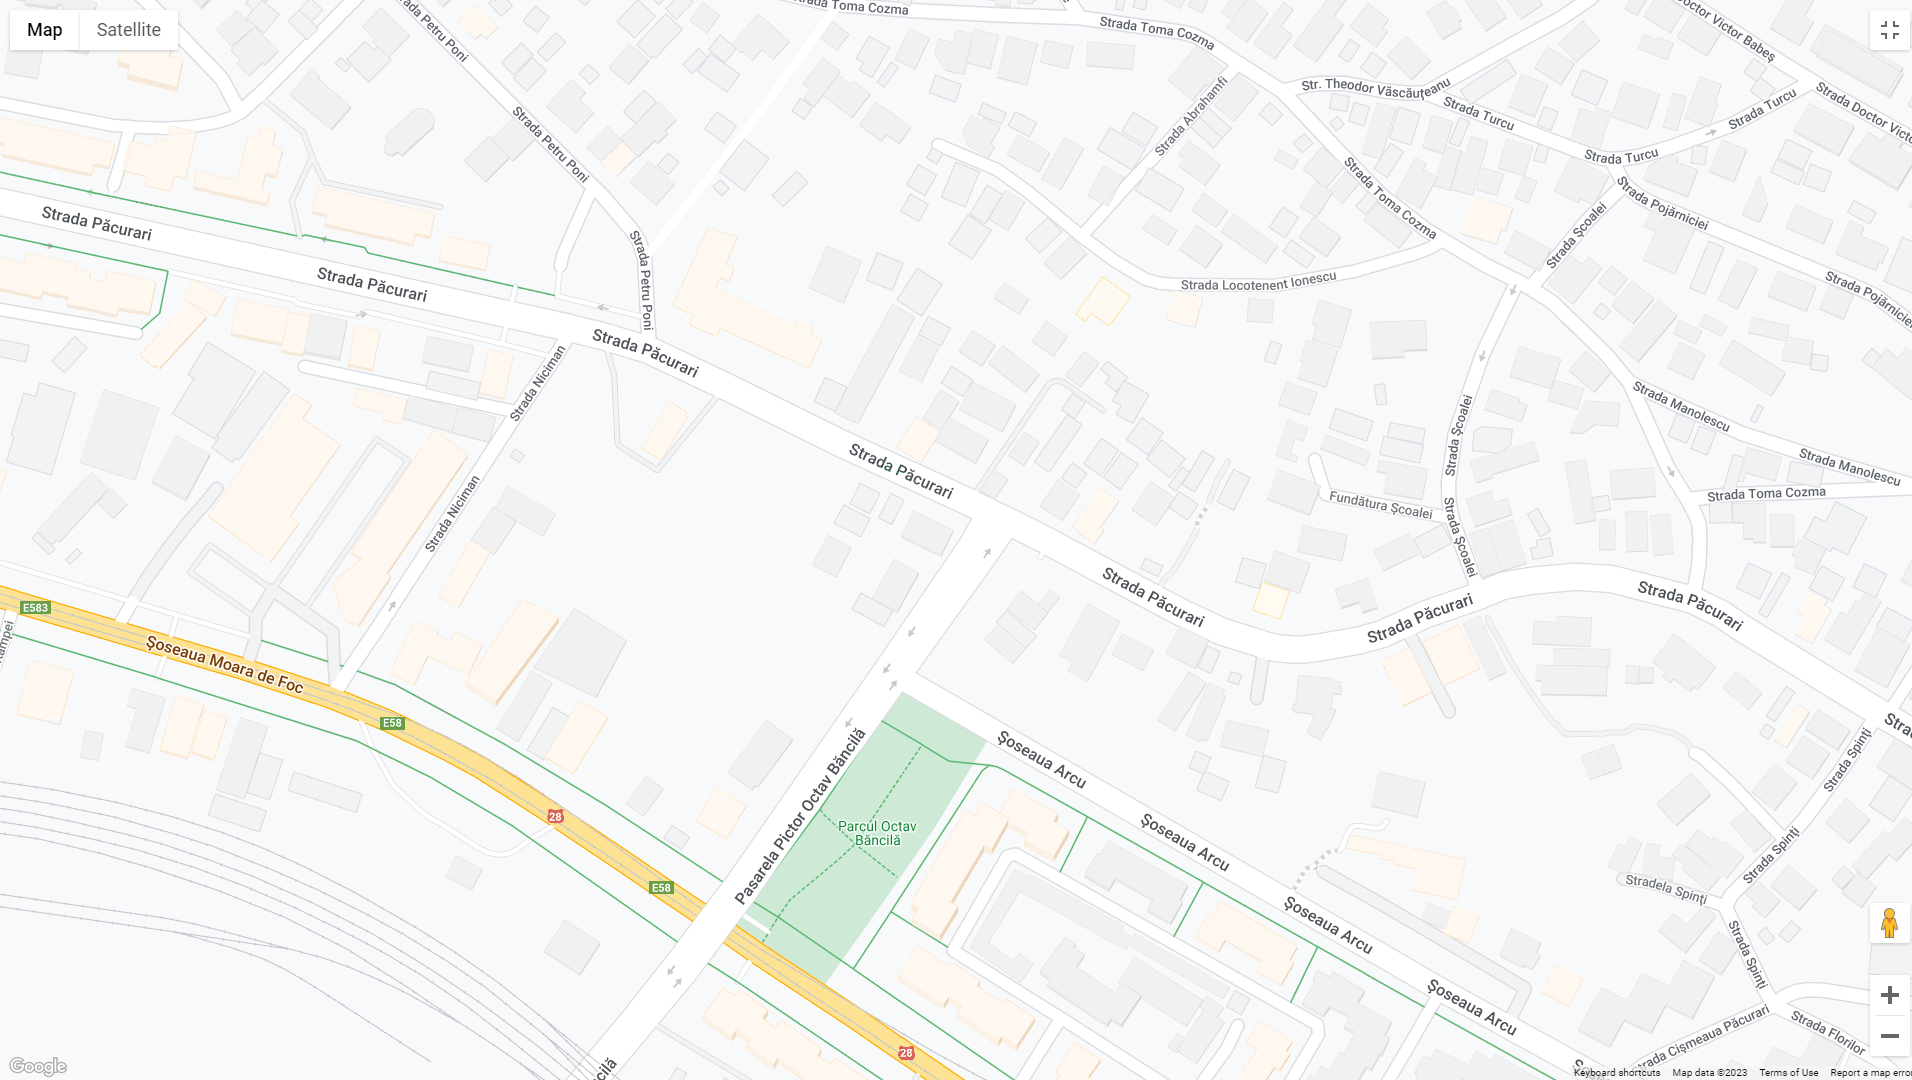
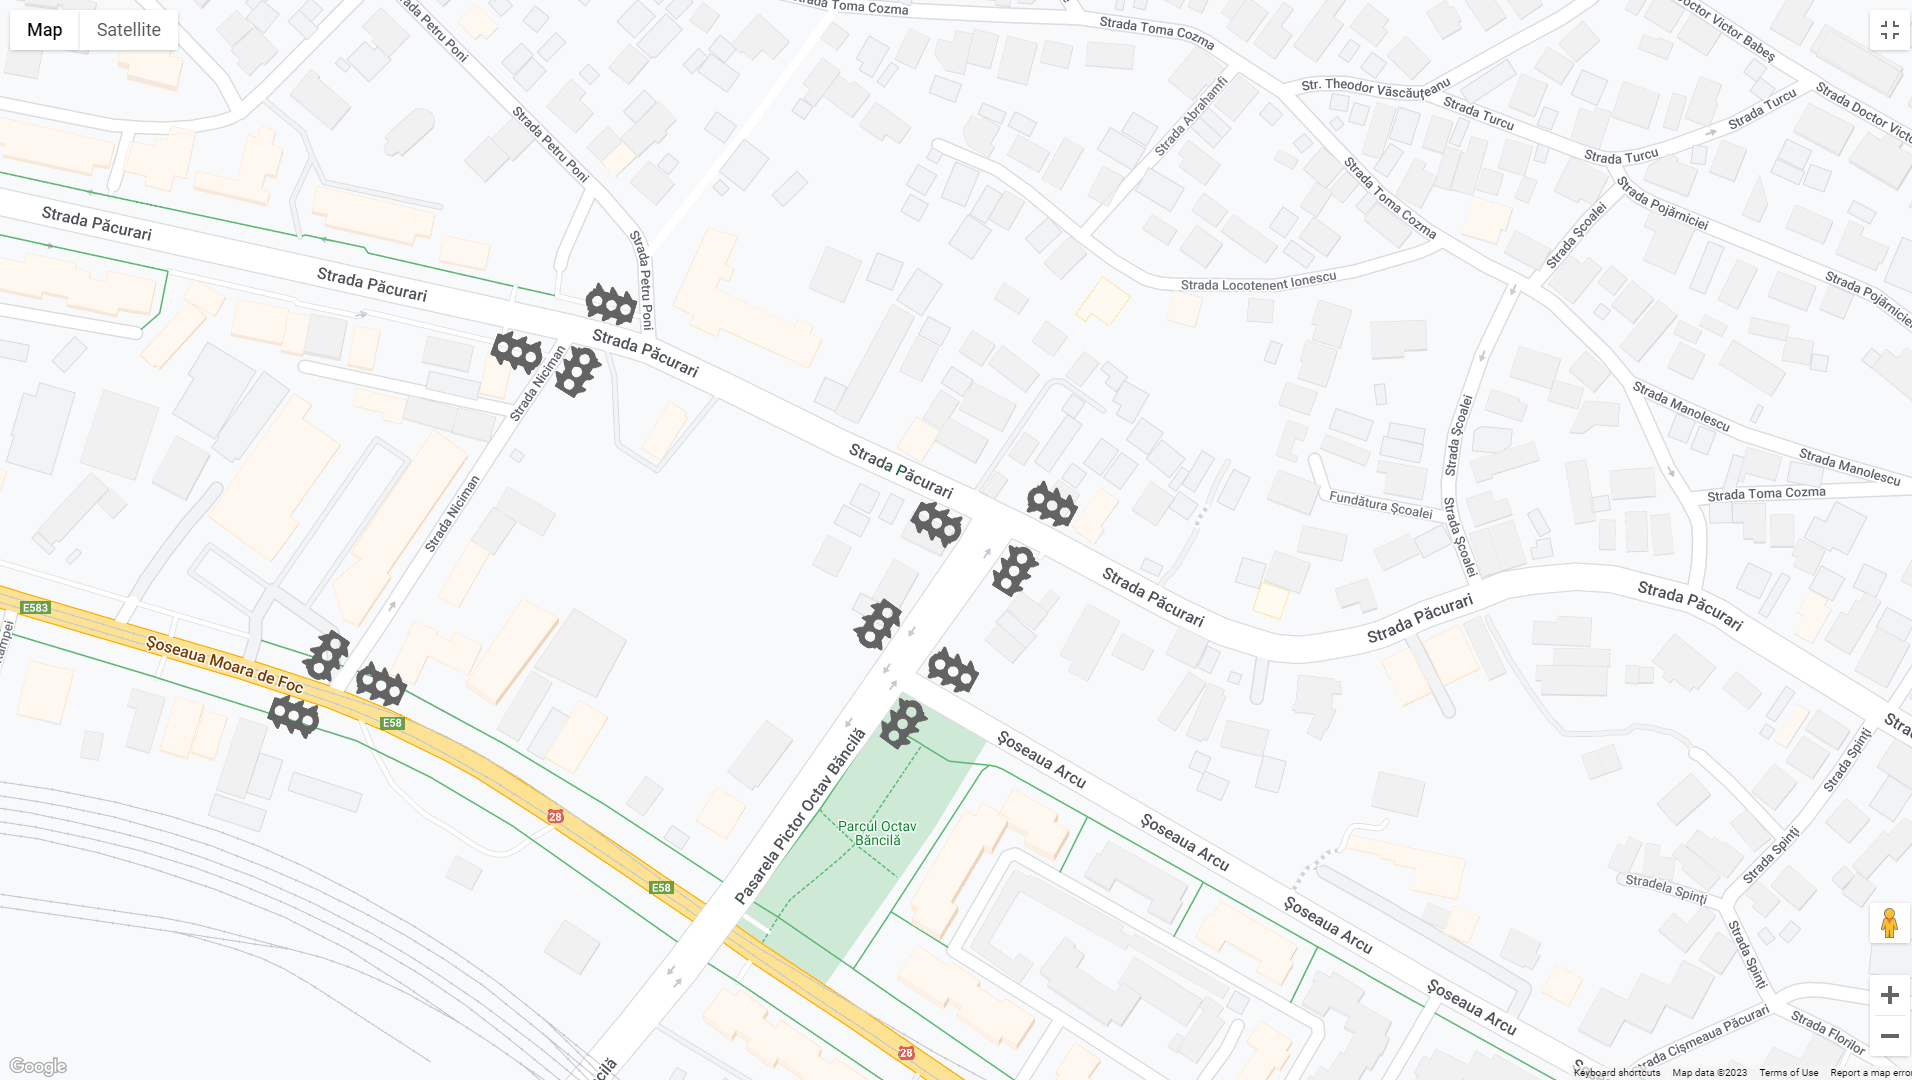
[ADDED] traffic lights for pasarela

diff --git a/src/main/java/com/example/trafficsimulator/models/Simulation.java b/src/main/java/com/example/trafficsimulator/models/Simulation.java
@@ -145,7 +145,7 @@ public class Simulation {
             Node start = nodes.get(index);
 
             List<Node> reachableNodes = start.getReachableNodes();
-            while(reachableNodes.size() == 0){
+            while(reachableNodes.size() == 0 || start.isOccupied()){
                 index = random.nextInt(upperbound);
                 start = nodes.get(index);
                 reachableNodes = start.getReachableNodes();
@@ -154,6 +154,8 @@ public class Simulation {
             Node end = reachableNodes.get(index2);
 
             Car car = new Car("Car " + i, start, end);
+
+            start.setOccupied(true);
             car.setTrafficMapController(trafficMap.getTrafficMapController());
 
             carList.add(car);

diff --git a/src/main/java/com/example/trafficsimulator/controllers/MainMenuController.java b/src/main/java/com/example/trafficsimulator/controllers/MainMenuController.java
@@ -37,7 +37,7 @@ public class MainMenuController {
                 zoneChoiceBox.getSelectionModel().selectFirst();
 
                 // Set default value for carsSpinner, and set a min and max value
-                carsSpinner.setValueFactory(new SpinnerValueFactory.IntegerSpinnerValueFactory(1, 200, 1));
+                carsSpinner.setValueFactory(new SpinnerValueFactory.IntegerSpinnerValueFactory(1, 500, 1));
 
                 // Set default value for intensitySlider, and add a listener to update the value on drag
                 intensitySlider.setOnMouseDragged(e -> intensitySlider.setValue((int) intensitySlider.getValue()));
